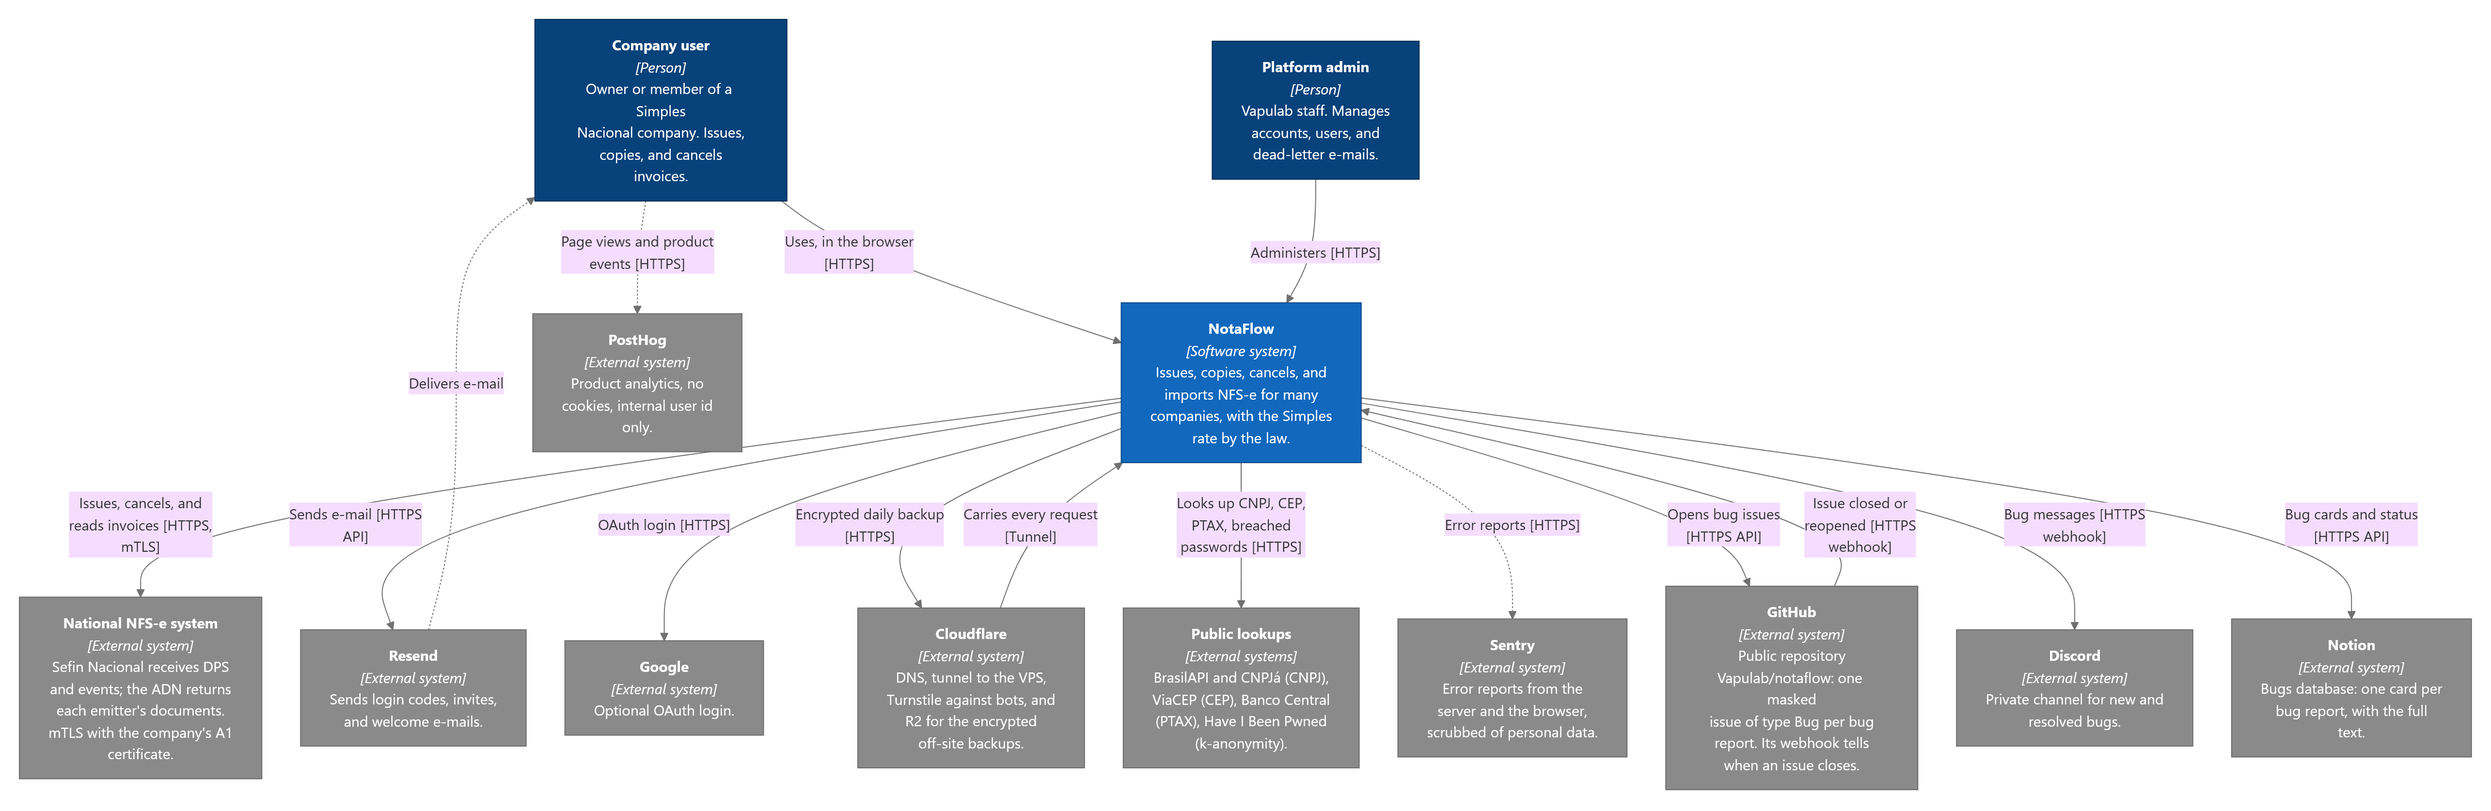
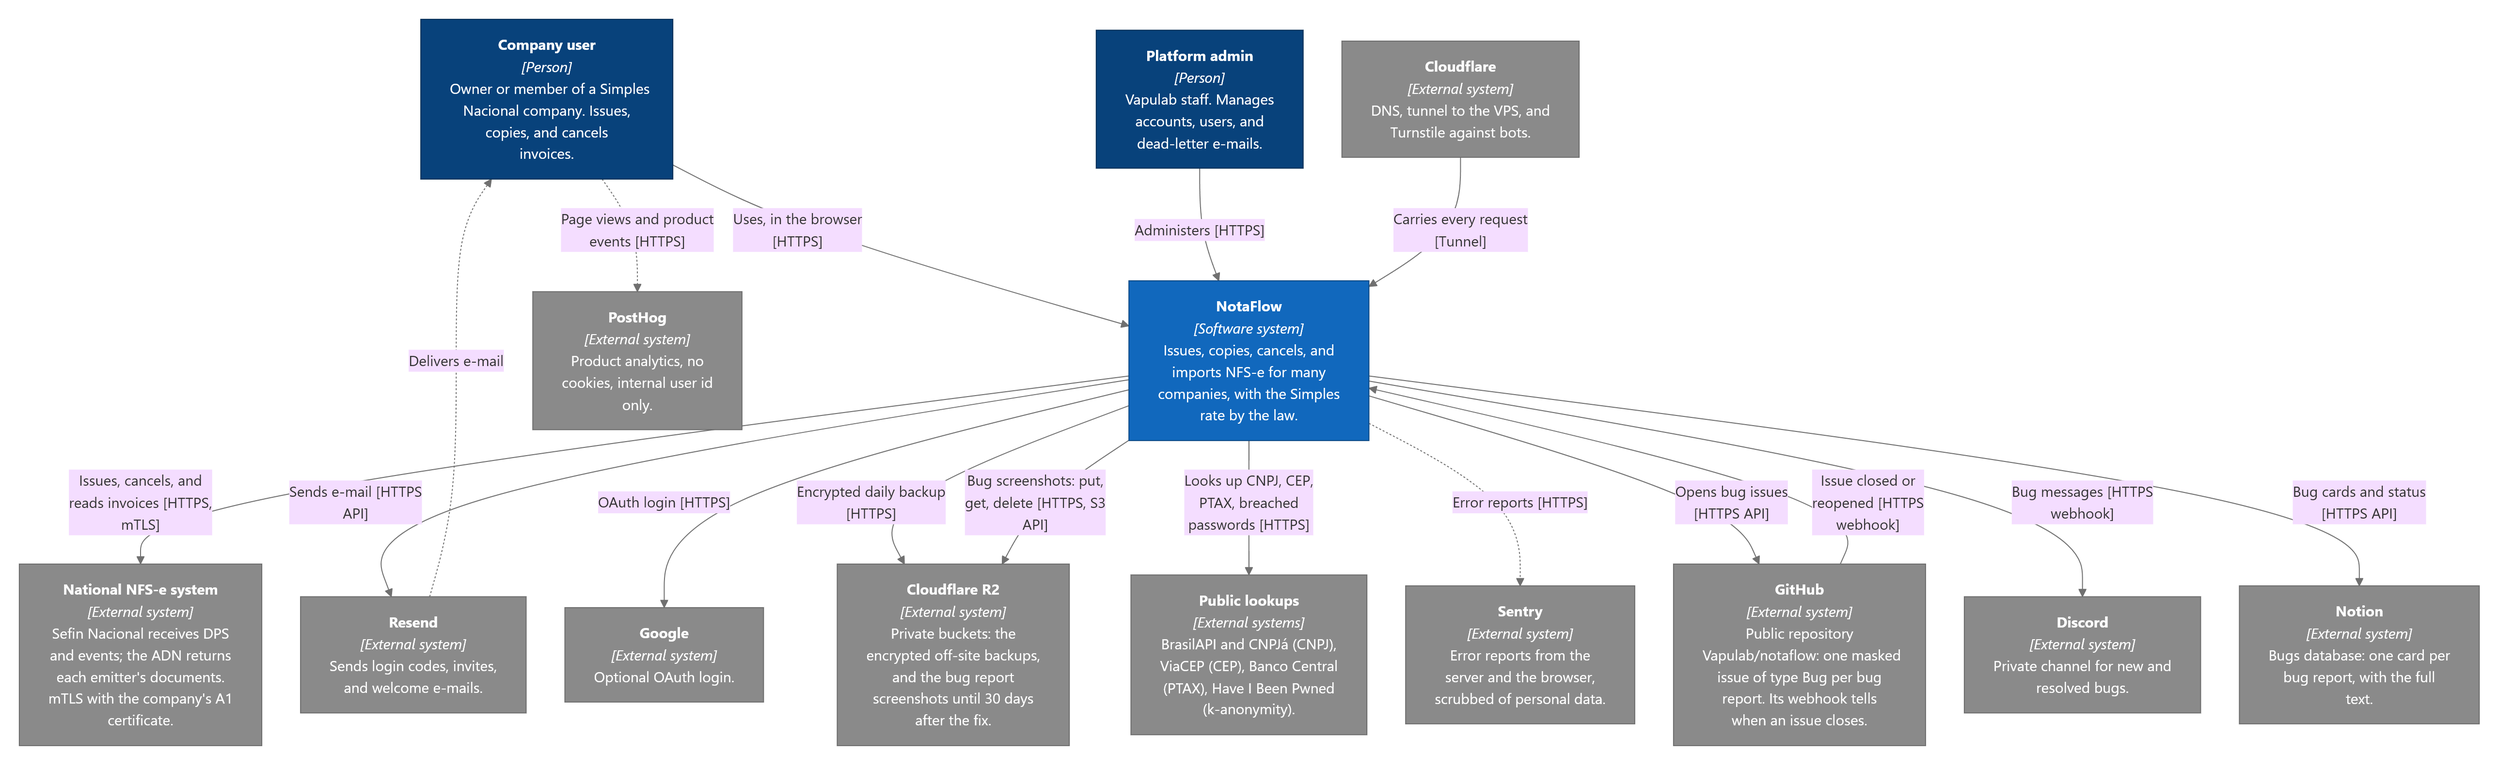
docs: screenshots in the bug reports RFC, R2 setup, and Cloudflare R2 in the C4 diagrams

diff --git a/docs/ENGINEERING/RFCS/2026/10/RFC_BUG_REPORTS.md b/docs/ENGINEERING/RFCS/2026/10/RFC_BUG_REPORTS.md
@@ -1,6 +1,6 @@
 # RFC: Bug Reports
 
-**Status:** Approved in design (2026-10-21); implemented on `feat/bug-report`
+**Status:** Approved in design (2026-10-21); implemented on `feat/bug-report`. Screenshots (issue #82) on `feat/bug-screenshots`
 **Date:** 2026-10-21
 **Owner:** Lincoln Santos (Vapulab)
 
@@ -12,6 +12,8 @@
 - GitHub REST API, issues: <https://docs.github.com/en/rest/issues/issues>
 - GitHub webhooks, signature check: <https://docs.github.com/en/webhooks/using-webhooks/validating-webhook-deliveries>
 - Notion API, create a page: <https://developers.notion.com/reference/post-page>
+- Cloudflare R2, S3 API compatibility: <https://developers.cloudflare.com/r2/api/s3/api/>
+- AWS Signature Version 4: <https://docs.aws.amazon.com/AmazonS3/latest/API/sig-v4-header-based-auth.html>
 
 ## Table of Contents
 
@@ -20,17 +22,20 @@
 3. [Solution](#solution)
 4. [Design](#design)
 5. [Privacy](#privacy)
-6. [Data Model](#data-model)
-7. [Configuration](#configuration)
-8. [Metrics and Alerts](#metrics-and-alerts)
-9. [File Locations](#file-locations)
-10. [Testing](#testing)
+6. [Screenshots](#screenshots)
+7. [Data Model](#data-model)
+8. [Configuration](#configuration)
+9. [Metrics and Alerts](#metrics-and-alerts)
+10. [File Locations](#file-locations)
+11. [Testing](#testing)
 
 ---
 
 ## Overview
 
 A customer reports a bug from any screen of an account with the "Reportar bug" button. The server stores the report and answers at once. Then it sends the report to three channels: a GitHub issue of type Bug in the public repository `Vapulab/notaflow`, a card in the Notion bugs database, and a message in the private Discord channel. When the issue closes on GitHub, a webhook marks the report as resolved, moves the Notion card to `Resolvido`, and tells Discord.
+
+A report can carry up to 3 screenshots. They go to a private Cloudflare R2 bucket, never to SQLite, GitHub, Notion, or Discord. A platform admin sees them on the admin page of the report. The server deletes them 30 days after the report is resolved. See [Screenshots](#screenshots).
 
 ---
 
@@ -128,6 +133,59 @@ The Discord channel and the Notion database are private. Discord gets the accoun
 
 ---
 
+## Screenshots
+
+A customer attaches up to 3 images to a report. The team sees them on the admin page of the report. R2 deletes nothing by itself: the server deletes the images 30 days after the GitHub issue closes.
+
+### The flow
+
+1. The dialog takes PNG, JPEG, or WebP files from a file input, or from a paste (Ctrl+V) in the dialog.
+2. `prepareBugImage` (`apps/web/src/components/bugImages.ts`) draws each file on a canvas at most 1920 px on the longer side and encodes it as WebP, quality 0.8. Safari has no WebP encoder: there it encodes JPEG. The new encoding drops the EXIF data, such as the GPS position of a phone photo. A result over 1 MB is refused with a message.
+3. The dialog sends the images in the same JSON `POST`: `images: [{ contentType, data }]`, `data` in base64. The auth hook accepts only JSON for a `POST`, so there is no multipart upload. The route `bodyLimit` is 4.5 MB.
+4. The route checks the count (at most 3), the type (`image/webp`, `image/png`, `image/jpeg`), the base64 alphabet, the size (1 MB after decoding), and the first bytes of the file against the type (`invalid_bug_image`).
+5. Without R2, a report with images gets 400 `bug_images_unavailable`. A text-only report still works. `/api/public/config` gives `bugScreenshots: false`, and the dialog hides the picker.
+6. The service sends each image to R2 as `bug-reports/<reportId>/<n>.<ext>` before any row exists. Then one transaction inserts the report, one `bug_report_images` row per image, and the deliveries. If an upload fails, the request gets 502 `bug_images_failed`, the server deletes the images already sent, and no report is stored.
+
+### What the channels get
+
+| Channel | Gets |
+| --- | --- |
+| GitHub (public) | One line: "2 screenshots, visible to the NotaFlow team." No link, no key, no image |
+| Notion (private) | A paragraph in "O que aconteceu": "2 imagens." and the link to the admin page. No new database property |
+| Discord (private) | The fields `Imagens` ("2 imagens") and `Painel` (the admin page URL) |
+
+Notion and Discord get the admin page link also for a report without images.
+
+### The admin page
+
+`/admin/bugs/:id` shows the title, the description, the account, the reporter, the screen path, the user agent, the status, the issue and Notion links, and the images. It reads:
+
+- `GET /api/admin/bug-reports/:id`: the report and its image list (position, type, size, `purgedAt`). It never returns the R2 key.
+- `GET /api/admin/bug-reports/:id/images/:position`: streams the object from R2 with `cache-control: private, no-store`.
+
+Both routes need a platform admin (`adminContext`): any other user gets 403 `admin_only`. An unknown report or position, or a purged image, is 404. After the purge, the page says "As imagens foram apagadas em <date>".
+
+### Retention and the purge
+
+- An open report keeps its images.
+- `BugReports.purgeImages()` deletes from R2 the images of each report that is `closed` with `closed_at` more than 30 days ago, then sets `purged_at`.
+- A reopen sets the report to `open` and clears `closed_at`, so the purge skips it. A new close starts the 30 days again.
+- R2 answers 404 or 204 for a missing object: both count as deleted, so a run can repeat. A failed delete is logged and waits for the next run.
+- The audit log records `bug.images_purge` per report as the user `system`.
+- The scheduler in `main.ts` runs the purge every hour. The rule is daily, but a deploy restarts the process, so a 24-hour timer could never fire.
+
+### The R2 client
+
+`apps/server/src/bugs/r2.ts` calls the S3 API of R2 at `https://<accountId>.r2.cloudflarestorage.com/<bucket>/<key>`, region `auto`: `PUT`, `GET`, and `DELETE`. It signs with AWS Signature Version 4 in about 40 lines of `node:crypto`, so it adds no dependency. `aws4fetch` was the other choice: it is small, but it signs a `fetch` `Request`, and the other clients here use undici `request` with an injectable dispatcher. A test checks the signature against the GET Object example of the AWS documentation. Each call has a timeout of 15 seconds.
+
+### Privacy
+
+- The images can show the data of the customer's own clients. The privacy policy (section 3, 4, and 6) names what, why, where, who, and how long. The change was an update, with the notice `2026-10-21-bug-screenshots`, not a new acceptance.
+- The bucket has no public access. Only the server has the token, scoped to the one bucket.
+- The image bytes never enter SQLite, the backups, or a log.
+
+---
+
 ## Data Model
 
 `bug_reports` is a business table: soft delete only, with the `bug_reports_no_delete` trigger.
@@ -143,6 +201,16 @@ The Discord channel and the Notion database are private. Discord gets the accoun
 | `github_issue_number`, `github_issue_url` | Set by the `github_issue` delivery |
 | `notion_page_id`, `notion_page_url` | Set by the `notion_page` delivery |
 
+`bug_report_images` is a business table too, with the `bug_report_images_no_delete` trigger:
+
+| Column | Note |
+| --- | --- |
+| `bug_report_id`, `account_id` | The report and its account |
+| `position` | 1 to 3, unique per report among active rows |
+| `content_type`, `size_bytes` | As stored in R2 |
+| `r2_key` | `bug-reports/<reportId>/<n>.<ext>` |
+| `purged_at` | Set when the purge deleted the object |
+
 `bug_report_deliveries` has the shape of `mail_outbox`: `kind`, `report_status` (for the status kinds), `status` (`pending`, `sending`, `sent`, `failed`), `attempts`, `next_attempt_at`, `last_error`, `created_at`, `sent_at`. It is a work queue, not a business table, like `mail_outbox`.
 
 ---
@@ -157,6 +225,7 @@ Every variable is optional. A channel is off while its variables are unset, so d
 | `GITHUB_WEBHOOK_SECRET` | The secret of the issues webhook. Without it, `/webhooks/github` answers 404 |
 | `DISCORD_BUG_WEBHOOK_URL` | An `https` URL |
 | `NOTION_TOKEN`, `NOTION_BUGS_DATABASE_ID` | Both or neither. Share the database with the integration |
+| `R2_ACCOUNT_ID`, `R2_BUG_REPORTS_ACCESS_KEY_ID`, `R2_BUG_REPORTS_SECRET_ACCESS_KEY`, `R2_BUG_REPORTS_BUCKET` | All four or none. The screenshot bucket and a token with Object Read and Write on it only. Without them, reports are text only. See [Deploy on the VM](../../../../TUTORIALS/DEPLOY_ON_VM.md#bug-report-screenshots) |
 
 The Notion database must have these properties with these exact names: `Título`, `Status` (select: Novo, Em análise, Corrigindo, Resolvido, Não é bug), `Severidade`, `Origem` (select: App, WhatsApp, E-mail, Interno), `Cliente`, `Emitente`, `Reportado por`, `Tela`, `Issue`, `Reportado em`, `ID NotaFlow`. The app fills all but `Severidade` and `Emitente`.
 
@@ -168,6 +237,7 @@ The Notion database must have these properties with these exact names: `Título`
 | --- | --- |
 | `notaflow_bug_reports` | `status`: `open` (active), `closed` (resolved) |
 | `notaflow_bug_report_deliveries` | `channel`: `github`, `discord`, `notion`; `state`: `pending` (also `sending`), `failed` |
+| `notaflow_bug_report_images` | `state`: `stored` (in R2), `purged` (deleted 30 days after the report closed) |
 
 Both gauges read the database at scrape time. A `failed` delivery counts for 7 days, so the alert `BugDeliveriesFailed` clears by itself. The Grafana dashboard `6. Bugs` (uid `bugs`) shows the reported, active, and resolved totals, the open and closed lines, and the deliveries by channel.
 
@@ -183,9 +253,13 @@ A failed delivery has no retry button yet. To send it again, set its `status` to
 | `apps/server/src/bugs/channels.ts` | The GitHub, Discord, and Notion clients (undici) |
 | `apps/server/src/bugs/mask.ts` | `maskPersonalData` and `maskPath` |
 | `apps/server/src/bugs/githubWebhook.ts` | `POST /webhooks/github` |
-| `apps/server/src/routes/bugReports.ts` | `POST /api/accounts/:accountId/bug-reports` |
-| `apps/server/src/repos/BugReportRepository.ts` | The queries on `bug_reports` |
+| `apps/server/src/bugs/images.ts` | The image checks and the R2 key |
+| `apps/server/src/bugs/r2.ts` | The R2 client and the SigV4 signature |
+| `apps/server/src/routes/bugReports.ts` | `POST /api/accounts/:accountId/bug-reports` and the two admin routes |
+| `apps/server/src/repos/BugReportRepository.ts` | The queries on `bug_reports` and `bug_report_images` |
 | `apps/web/src/components/BugReportDialog.tsx` | The dialog behind "Reportar bug" |
+| `apps/web/src/components/bugImages.ts` | The resize and the WebP encoding in the browser |
+| `apps/web/src/pages/AdminBugPage.tsx` | The admin page of one report |
 | `deploy/monitoring/grafana/dashboards/6-bugs.json` | The Grafana dashboard |
 
 ---
@@ -195,4 +269,9 @@ A failed delivery has no retry button yet. To send it again, set its `status` to
 - `mask.test.ts`: each masked format, texts that must not change, and the paths.
 - `bugReports.test.ts`: the three channels through an undici `MockAgent` (the masked issue, the Notion properties, the Discord links); no channel configured; a suspended account; a GitHub failure and the retry; a retry that finds the issue of a lost answer; a path with markdown stored as `/`; 5 failures to `failed`; the rate limit; the validation; the webhook signature, events, repository, idempotency, close and reopen; the gauges.
 - `BugReportDialog.test.tsx`: the button only inside an account, the request body, the thanks text, and the error text.
+- `images.test.ts`, `r2.test.ts`: the type, size, and first-byte checks; the SigV4 example of the AWS documentation; `PUT`, `GET`, and `DELETE` through a `MockAgent`.
+- `bugImages.test.ts`: the upload before the answer, the refusal without R2, the validation, a failed upload, the channel texts, the purge (only closed over 30 days, a reopen, a 404, a failed delete, a second run), the gauge, and the admin routes.
+- `channels.test.ts`: the Notion link and image count, and the issue line.
+- `BugReportScreenshots.test.tsx`: pick, paste, remove, the 3-image limit, the 1 MB message, and the picker off. The resize module is mocked, because jsdom has no canvas.
+- `AdminBugPage.test.tsx`: the report, the images, and the purge date.
 - `rules.test.yml`: `BugDeliveriesFailed` fires on a failed delivery only.

diff --git a/docs/ENGINEERING/ARCHITECTURE/OVERVIEW.md b/docs/ENGINEERING/ARCHITECTURE/OVERVIEW.md
@@ -4,7 +4,7 @@ NotaFlow is one app container behind a Cloudflare tunnel. A Fastify server holds
 
 A monitoring stack on the same VPS collects the app's metrics by module, the logs of every container, and alerts to Discord. Sentry receives the errors of the server and the browser, scrubbed of personal data. See the [Monitoring RFC](../RFCS/2026/10/RFC_MONITORING.md) and the [Monitoring tutorial](../../TUTORIALS/MONITORING.md).
 
-A bug that a customer reports in the app goes to a masked GitHub issue, a Discord message, and a Notion card. The GitHub issues webhook resolves the report when the issue closes. See the [Bug Reports RFC](../RFCS/2026/10/RFC_BUG_REPORTS.md).
+A bug that a customer reports in the app goes to a masked GitHub issue, a Discord message, and a Notion card. The GitHub issues webhook resolves the report when the issue closes. Its screenshots go to a private Cloudflare R2 bucket, never to those three systems, and the server deletes them 30 days after the fix. See the [Bug Reports RFC](../RFCS/2026/10/RFC_BUG_REPORTS.md).
 
 The C4 diagrams below go from the outside in. Their sources and how to change them are in [diagrams/](diagrams/README.md).
 
@@ -12,17 +12,17 @@ The C4 diagrams below go from the outside in. Their sources and how to change th
 
 Who uses NotaFlow, and which external systems it talks to.
 
-![C4 system context: the company user and the platform admin use NotaFlow; NotaFlow talks to the national NFS-e system, Resend, Google, Cloudflare, PostHog, Sentry, GitHub, Discord, Notion, and the public lookups](diagrams/c4-1-context.png)
+![C4 system context: the company user and the platform admin use NotaFlow; NotaFlow talks to the national NFS-e system, Resend, Google, Cloudflare, Cloudflare R2, PostHog, Sentry, GitHub, Discord, Notion, and the public lookups](diagrams/c4-1-context.png)
 
 ## Containers
 
 The parts that run: the web app and the public pages in the browser, the tunnel, the API server, the SQLite database, the CNPJ card parser, the backup timer, and the monitoring stack.
 
-![C4 containers: the browser reaches the API server through cloudflared; the server uses SQLite, a card parser child process, the national system, Resend, the lookups, and GitHub, Discord, and Notion for bug reports; the monitoring stack scrapes the server; errors go to Sentry](diagrams/c4-2-containers.png)
+![C4 containers: the browser reaches the API server through cloudflared; the server uses SQLite, a card parser child process, the national system, Resend, the lookups, GitHub, Discord, and Notion for bug reports, and R2 for the backups and the bug screenshots; the monitoring stack scrapes the server; errors go to Sentry](diagrams/c4-2-containers.png)
 
 ## Server Components
 
-Inside the API server: every request passes the auth hook, which gives the routes an account context; the services use the vault, the national provider, and the repositories. Each request is counted by module in the metrics, and each 5xx goes to the error reporter. The lifecycle service sends the onboarding, first-invoice, and reactivation reminders through the mail outbox. The bug reports component sends each report to GitHub, Notion, and Discord with retries.
+Inside the API server: every request passes the auth hook, which gives the routes an account context; the services use the vault, the national provider, and the repositories. Each request is counted by module in the metrics, and each 5xx goes to the error reporter. The lifecycle service sends the onboarding, first-invoice, and reactivation reminders through the mail outbox. The bug reports component sends each report to GitHub, Notion, and Discord with retries, and keeps its screenshots in R2.
 
 ![C4 components of the API server: auth hook, Better Auth, routes, onboarding, issue service, sync service, certificate vault, national provider, repositories, mail outbox, audit log, metrics, error reporter, lifecycle service, bug reports](diagrams/c4-3-server-components.png)
 

diff --git a/docs/TUTORIALS/DEPLOY_ON_VM.md b/docs/TUTORIALS/DEPLOY_ON_VM.md
@@ -32,6 +32,7 @@ The app publishes no host port. The northub tunnel reaches it on the Docker netw
 | `GITHUB_WEBHOOK_SECRET` | `/opt/notaflow/.env` | The secret of the `Issues` webhook of `Vapulab/notaflow` to `https://notaflow.vapulab.com/webhooks/github` (content type `application/json`). Without it, the route answers 404 |
 | `DISCORD_BUG_WEBHOOK_URL` | `/opt/notaflow/.env` | The webhook of the private Discord bugs channel. The URL is the credential: anyone with it can post |
 | `NOTION_TOKEN`, `NOTION_BUGS_DATABASE_ID` | `/opt/notaflow/.env` | The Notion integration token and the id of the bugs database. Share the database with the integration |
+| `R2_ACCOUNT_ID`, `R2_BUG_REPORTS_ACCESS_KEY_ID`, `R2_BUG_REPORTS_SECRET_ACCESS_KEY`, `R2_BUG_REPORTS_BUCKET` | `/opt/notaflow/.env` | The private bucket of the bug report screenshots and a token with Object Read and Write on it only. All four or none. Without them, the dialog hides the image picker. See [Bug report screenshots](#bug-report-screenshots) |
 | `VM_SSH_KEY`, `VM_KNOWN_HOSTS`, `VM_HOST` | Secrets of the GitHub environment `production`, which only the `production` branch can use | The deploy key (`notaflow-deploy` in `/root/.ssh/authorized_keys`, with `restrict`: no forwarding, no terminal) |
 
 To see the master key for the password manager: `ssh vapulab "grep NFSE_MASTER_KEY /opt/notaflow/.env"` in your own terminal.
@@ -102,6 +103,31 @@ python3 -c "import sqlite3; print(sqlite3.connect('notaflow.db').execute('pragma
 ```
 
 Then copy `notaflow.db` into the volume as in "Restore" above. The first copy was restored this way on 2026-10-11: the integrity check printed `ok`, with 20 tables and 16 migrations.
+
+## Bug report screenshots
+
+The images that a customer attaches to a bug report go to a private Cloudflare R2 bucket. The app deletes them 30 days after the GitHub issue closes. Set it up once:
+
+1. In the Cloudflare dashboard, open **R2 Object Storage** and create the bucket `notaflow-bug-screenshots`. Keep the default location.
+2. In the bucket settings, keep **Public access** off: no `r2.dev` URL and no custom domain. Only the app reads the images, with its token.
+3. In **R2 Object Storage**, open **Manage API tokens** and create an account API token:
+   - Permissions: **Object Read & Write**.
+   - Specify bucket: `notaflow-bug-screenshots` only.
+   - TTL: forever.
+   - Client IP filtering: none. The app container can go out over IPv4 or IPv6, and a filter for one address family refuses the other.
+4. Copy the **Access Key ID** and the **Secret Access Key**. Cloudflare shows the secret one time only.
+5. Add the four variables to `/opt/notaflow/.env`:
+
+   ```bash
+   R2_ACCOUNT_ID=<the account id in the R2 overview, 32 characters>
+   R2_BUG_REPORTS_ACCESS_KEY_ID=<access key id>
+   R2_BUG_REPORTS_SECRET_ACCESS_KEY=<secret access key>
+   R2_BUG_REPORTS_BUCKET=notaflow-bug-screenshots
+   ```
+
+6. Run `docker compose up -d app`. Open the "Reportar bug" dialog: it now shows "Imagens (opcional)".
+
+Do not reuse the token of the off-site backups: each token reaches one bucket only. Do not add a lifecycle rule to this bucket. An open report keeps its images, and the app deletes them on its own schedule (every hour, for reports closed more than 30 days ago). The metric `notaflow_bug_report_images{state="stored|purged"}` counts them.
 
 ## Server hardening
 

diff --git a/docs/ENGINEERING/CONVENTIONS/SECRETS.md b/docs/ENGINEERING/CONVENTIONS/SECRETS.md
@@ -9,8 +9,9 @@ A secret never enters git. The repository is public, so a committed secret is a 
 | A tenant `.pfx` certificate and its password | In production: the encrypted vault in the database. Locally: a path outside the repo, named in `.env.local`. |
 | `NFSE_MASTER_KEY` | The VM `.env` file (mode `600`), and a copy in Lincoln's password manager. Never next to a backup. |
 | `TUNNEL_TOKEN` | The VM `.env` file. |
-| `BETTER_AUTH_SECRET`, `RESEND_API_KEY`, `GOOGLE_CLIENT_SECRET`, `TURNSTILE_SECRET_KEY`, `GITHUB_BUG_TOKEN`, `GITHUB_WEBHOOK_SECRET`, `DISCORD_BUG_WEBHOOK_URL`, `NOTION_TOKEN` | The VM `.env` file. Locally, `apps/server/.env.local`. |
+| `BETTER_AUTH_SECRET`, `RESEND_API_KEY`, `GOOGLE_CLIENT_SECRET`, `TURNSTILE_SECRET_KEY`, `GITHUB_BUG_TOKEN`, `GITHUB_WEBHOOK_SECRET`, `DISCORD_BUG_WEBHOOK_URL`, `NOTION_TOKEN`, `R2_BUG_REPORTS_ACCESS_KEY_ID`, `R2_BUG_REPORTS_SECRET_ACCESS_KEY` | The VM `.env` file. Locally, `apps/server/.env.local`. |
 | A real invoice XML, or any real CNPJ, customer name, or amount | Nowhere in the repo. It is tenant data. |
+| A bug report screenshot | Only in the private R2 bucket `R2_BUG_REPORTS_BUCKET`. Never in the repo, the database, GitHub, Notion, or Discord. It can show tenant data. |
 
 ## The guards
 

diff --git a/docs/ENGINEERING/CONVENTIONS/DATA.md b/docs/ENGINEERING/CONVENTIONS/DATA.md
@@ -4,7 +4,7 @@ NotaFlow never deletes a business row, and every row says who created, changed, 
 
 ## Business tables
 
-`accounts`, `users`, `memberships`, `emitters`, `certificates`, `customers`, `services`, `invoices`, `invoice_events`, `sync_state`, `account_documents` (the CNPJ cards of onboarding, gzipped), and `bug_reports`. The list lives in `apps/server/src/db/businessTables.ts`. A new table goes there, or it is `audit_log`; a test fails otherwise.
+`accounts`, `users`, `memberships`, `emitters`, `certificates`, `customers`, `services`, `invoices`, `invoice_events`, `sync_state`, `account_documents` (the CNPJ cards of onboarding, gzipped), `bug_reports`, and `bug_report_images` (the R2 keys of the screenshots, never the bytes). The list lives in `apps/server/src/db/businessTables.ts`. A new table goes there, or it is `audit_log`; a test fails otherwise.
 
 ## Control columns
 
